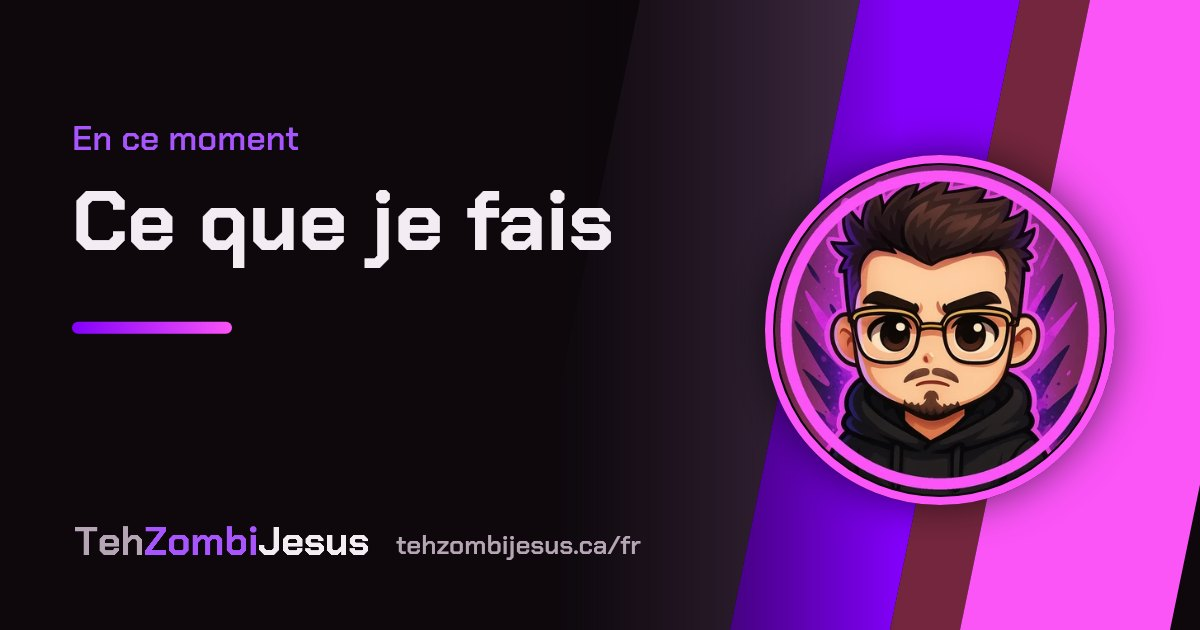
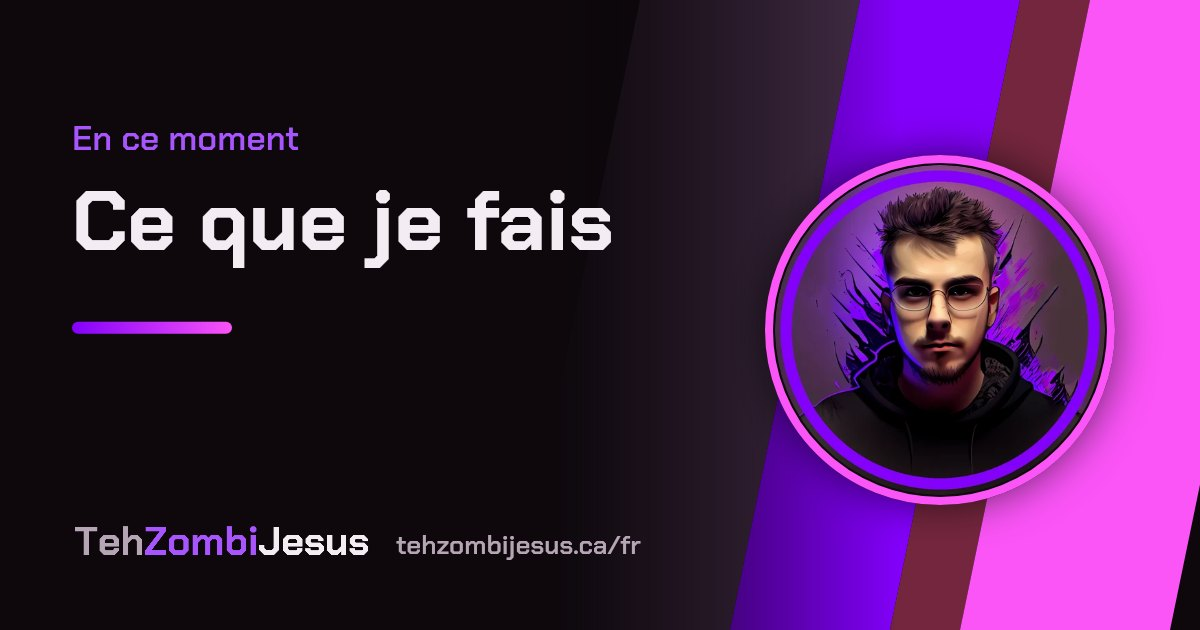
One portrait everywhere, and "article" in the French devlog
- The realistic portrait replaces the cartoon one on the home page and in
  every link preview image; the portrait flip and its achievement are gone
- French devlog says "article" instead of "billet"
- The last two posts are dated October 9, the day they went out

Claude-Session: https://claude.ai/code/session_011ZPNKb7oEeXYxcHXvTuuqN

Changed region(s): [[0.6475, 0.2413, 0.925, 0.7841]]

diff --git a/site/fr/devlog/crypt-keeper-devlog.html b/site/fr/devlog/crypt-keeper-devlog.html
@@ -4,13 +4,13 @@
 <meta charset="utf-8">
 <meta name="viewport" content="width=device-width, initial-scale=1, viewport-fit=cover">
 <title>Crypt Keeper publie le journal et reçoit /update-server | TehZombiJesus</title>
-<meta name="description" content="Chaque nouveau billet du journal arrive maintenant tout seul dans la Crypte, en anglais et en français, dans un nouveau salon 📰┃devlog.">
+<meta name="description" content="Chaque nouvel article du journal arrive maintenant tout seul dans la Crypte, en anglais et en français, dans un nouveau salon 📰┃devlog.">
 <meta name="theme-color" content="#8300fb">
 <link rel="icon" href="../../assets/favicon.svg" type="image/svg+xml">
 <link rel="manifest" href="../../manifest.webmanifest">
 <link rel="apple-touch-icon" href="../../assets/apple-touch-icon.png">
 <meta property="og:title" content="Crypt Keeper publie le journal et reçoit /update-server | TehZombiJesus">
-<meta property="og:description" content="Chaque nouveau billet du journal arrive maintenant tout seul dans la Crypte, en anglais et en français, dans un nouveau salon 📰┃devlog.">
+<meta property="og:description" content="Chaque nouvel article du journal arrive maintenant tout seul dans la Crypte, en anglais et en français, dans un nouveau salon 📰┃devlog.">
 <meta property="og:locale" content="fr_CA">
 <meta property="og:type" content="article">
 <meta property="og:site_name" content="TehZombiJesus">
@@ -59,16 +59,16 @@
     <span class="tag">Journal · <time datetime="2026-10-09">9 octobre 2026</time></span>
     <h1>Crypt Keeper publie le journal et reçoit /update-server</h1>
     <div class="bar"></div>
-    <p>Chaque nouveau billet du journal arrive maintenant tout seul dans la Crypte, en anglais et en français, dans un nouveau salon 📰┃devlog.</p>
+    <p>Chaque nouvel article du journal arrive maintenant tout seul dans la Crypte, en anglais et en français, dans un nouveau salon 📰┃devlog.</p>
   </header>
   <article class="prose">
-<p>Crypt Keeper, le bot de la Crypte, a appris un nouveau tour. Il vérifie le journal de ce site toutes les 30&nbsp;minutes, et chaque nouveau billet arrive dans <strong>📰┃devlog</strong> sur le serveur Discord, avec son titre, un résumé d'une ligne en anglais et en français, et des liens vers les deux versions.</p>
+<p>Crypt Keeper, le bot de la Crypte, a appris un nouveau tour. Il vérifie le journal de ce site toutes les 30&nbsp;minutes, et chaque nouvel article arrive dans <strong>📰┃devlog</strong> sur le serveur Discord, avec son titre, un résumé d'une ligne en anglais et en français, et des liens vers les deux versions.</p>
 <p>Le salon est en lecture seule, pour que les mises à jour restent faciles à suivre. On en jase dans les salons habituels.</p>
 <h2>/update-server</h2>
 <p>Les nouvelles fonctions qui ont besoin de quelque chose sur le serveur arrivent maintenant sous forme de petites mises à jour. <code>/update-server</code> affiche seulement ce qui est nouveau, explique chaque changement et attend un clic sur Appliquer. Chaque mise à jour ne s'applique qu'une fois et ne touche qu'à sa propre nouveauté, alors tout ce qui a été modifié à la main dans Discord reste exactement pareil. Fini de relancer tout le <code>/build-server</code>.</p>
 <p>Le journal couvre maintenant tout&nbsp;: ce site web, le serveur Discord et Crypt Keeper, le serveur Minecraft, le homelab et le poste de jeu. Le salon #devlog est donc l'endroit unique pour voir ce qui a changé.</p>
   </article>
-  <nav class="post-nav" aria-label="Autres billets"><a class="older" href="../devlog/moved-to-github.html">← Le site a déménagé sur GitHub, et il parle français</a><a class="all" href="../devlog.html">Tous les billets</a><a class="newer" href="../devlog/times-in-your-time-zone.html">Chaque heure dans ton propre fuseau horaire →</a></nav>
+  <nav class="post-nav" aria-label="Autres articles"><a class="older" href="../devlog/stavo-and-one-devlog.html">← Stavo sur la page du homelab, et un seul journal pour tout</a><a class="all" href="../devlog.html">Tous les articles</a></nav>
 </main>
 
 <footer>

diff --git a/site/fr/devlog.html b/site/fr/devlog.html
@@ -59,31 +59,31 @@
     <span class="tag">Journal</span>
     <h1>Construit en public</h1>
     <div class="bar"></div>
-    <p>Chaque mise à jour du site, du serveur Discord et de son bot, du serveur Minecraft, du homelab et du poste de jeu. Les nouveaux billets sont aussi annoncés sur Discord. Suis le tout avec le flux <a class="rss" href="feed.xml">RSS</a></p>
+    <p>Chaque mise à jour du site, du serveur Discord et de son bot, du serveur Minecraft, du homelab et du poste de jeu. Les nouveaux articles sont aussi annoncés sur Discord. Suis le tout avec le flux <a class="rss" href="feed.xml">RSS</a></p>
   </header>
   <section>
-    <div class="proj-filter" role="group" aria-label="Afficher les billets sur">
+    <div class="proj-filter" role="group" aria-label="Afficher les articles sur">
       <button type="button" data-filter="all" aria-pressed="true">Tout</button>
       <button type="button" data-filter="website" aria-pressed="false">Site web</button>
       <button type="button" data-filter="discord" aria-pressed="false">Discord et bot</button>
     </div>
     <ol class="post-list">
+      <li data-project="discord">
+        <span class="proj">Discord et bot</span><time datetime="2026-10-09">9 octobre 2026</time>
+        <h3><a href="devlog/crypt-keeper-devlog.html">Crypt Keeper publie le journal et reçoit /update-server</a></h3>
+        <p>Chaque nouvel article du journal arrive maintenant tout seul dans la Crypte, en anglais et en français, dans un nouveau salon 📰┃devlog.</p>
+        <ul class="tags-mini"><li>discord</li><li>bot</li><li>crypt keeper</li></ul>
+      </li>
       <li data-project="website">
-        <span class="proj">Site web</span><time datetime="2026-10-10">10 octobre 2026</time>
+        <span class="proj">Site web</span><time datetime="2026-10-09">9 octobre 2026</time>
         <h3><a href="devlog/stavo-and-one-devlog.html">Stavo sur la page du homelab, et un seul journal pour tout</a></h3>
         <p>La page du homelab présente maintenant Stavo, la plateforme auto-hébergée de mon ami Ronniie, et ce journal couvre maintenant chaque projet, avec un filtre.</p>
         <ul class="tags-mini"><li>website</li><li>homelab</li><li>stavo</li></ul>
       </li>
       <li data-project="discord">
-        <span class="proj">Discord et bot</span><time datetime="2026-10-10">10 octobre 2026</time>
+        <span class="proj">Discord et bot</span><time datetime="2026-10-09">9 octobre 2026</time>
         <h3><a href="devlog/times-in-your-time-zone.html">Chaque heure dans ton propre fuseau horaire</a></h3>
         <p>Les dates et heures publiées dans la Crypte s&#x27;affichent maintenant dans le fuseau horaire de chacun, et /timestamp permet à tout le monde d&#x27;en créer.</p>
-        <ul class="tags-mini"><li>discord</li><li>bot</li><li>crypt keeper</li></ul>
-      </li>
-      <li data-project="discord">
-        <span class="proj">Discord et bot</span><time datetime="2026-10-09">9 octobre 2026</time>
-        <h3><a href="devlog/crypt-keeper-devlog.html">Crypt Keeper publie le journal et reçoit /update-server</a></h3>
-        <p>Chaque nouveau billet du journal arrive maintenant tout seul dans la Crypte, en anglais et en français, dans un nouveau salon 📰┃devlog.</p>
         <ul class="tags-mini"><li>discord</li><li>bot</li><li>crypt keeper</li></ul>
       </li>
       <li data-project="website">

diff --git a/site/fr/devlog/stavo-and-one-devlog.html b/site/fr/devlog/stavo-and-one-devlog.html
@@ -56,7 +56,7 @@
 
 <main class="wrap">
   <header class="page-head">
-    <span class="tag">Journal · <time datetime="2026-10-10">10 octobre 2026</time></span>
+    <span class="tag">Journal · <time datetime="2026-10-09">9 octobre 2026</time></span>
     <h1>Stavo sur la page du homelab, et un seul journal pour tout</h1>
     <div class="bar"></div>
     <p>La page du homelab présente maintenant Stavo, la plateforme auto-hébergée de mon ami Ronniie, et ce journal couvre maintenant chaque projet, avec un filtre.</p>
@@ -65,11 +65,11 @@
 <h2>Stavo, par un ami</h2>
 <p>La page du homelab a une nouvelle section sur <a href="https://stavo.nulldaily.com">Stavo</a>, la plateforme auto-hébergée que mon bon ami Ronniie bâtit chez <a href="https://nulldaily.com">NullDaily</a>. Elle roule sur ton propre matériel&nbsp;: fichiers, photos, notes, serveurs de jeu, hébergement et facturation, pages de statut, mots de passe, courriel et plus encore. Une bonne partie de mon lab pourrait finir par rouler dessus, alors chaque application que je surveille a sa carte avec un lien.</p>
 <h2>Un seul journal pour tout</h2>
-<p>Ce journal couvre maintenant chaque projet, pas juste le site web&nbsp;: le serveur Discord et Crypt Keeper, le serveur Minecraft, le homelab et le poste de jeu. Chaque billet indique de quel projet il parle, et les boutons au-dessus de la liste n'affichent qu'un projet à la fois. Les nouveaux billets arrivent aussi tout seuls dans #devlog sur le serveur Discord.</p>
+<p>Ce journal couvre maintenant chaque projet, pas juste le site web&nbsp;: le serveur Discord et Crypt Keeper, le serveur Minecraft, le homelab et le poste de jeu. Chaque article indique de quel projet il parle, et les boutons au-dessus de la liste n'affichent qu'un projet à la fois. Les nouveaux articles arrivent aussi tout seuls dans #devlog sur le serveur Discord.</p>
 <h2>Ménage</h2>
 <p>Le dessin du prochain serveur n'est plus sur la page du homelab. Le plan de montage et les raisons derrière chaque choix sont toujours là.</p>
   </article>
-  <nav class="post-nav" aria-label="Autres billets"><a class="older" href="../devlog/times-in-your-time-zone.html">← Chaque heure dans ton propre fuseau horaire</a><a class="all" href="../devlog.html">Tous les billets</a></nav>
+  <nav class="post-nav" aria-label="Autres articles"><a class="older" href="../devlog/times-in-your-time-zone.html">← Chaque heure dans ton propre fuseau horaire</a><a class="all" href="../devlog.html">Tous les articles</a><a class="newer" href="../devlog/crypt-keeper-devlog.html">Crypt Keeper publie le journal et reçoit /update-server →</a></nav>
 </main>
 
 <footer>

diff --git a/site/devlog.html b/site/devlog.html
@@ -67,22 +67,22 @@
       <button type="button" data-filter="discord" aria-pressed="false">Discord and bot</button>
     </div>
     <ol class="post-list">
+      <li data-project="discord">
+        <span class="proj">Discord and bot</span><time datetime="2026-10-09">October 9, 2026</time>
+        <h3><a href="devlog/crypt-keeper-devlog.html">Crypt Keeper posts the devlog, and gets /update-server</a></h3>
+        <p>Every new devlog post now shows up in the Crypt by itself, in English and French, in a new 📰┃devlog channel.</p>
+        <ul class="tags-mini"><li>discord</li><li>bot</li><li>crypt keeper</li></ul>
+      </li>
       <li data-project="website">
-        <span class="proj">Website</span><time datetime="2026-10-10">October 10, 2026</time>
+        <span class="proj">Website</span><time datetime="2026-10-09">October 9, 2026</time>
         <h3><a href="devlog/stavo-and-one-devlog.html">Stavo on the homelab page, and one devlog for everything</a></h3>
         <p>The homelab page now shows Stavo, my friend Ronniie&#x27;s self-hosted platform, and this devlog now covers every project, with a filter.</p>
         <ul class="tags-mini"><li>website</li><li>homelab</li><li>stavo</li></ul>
       </li>
       <li data-project="discord">
-        <span class="proj">Discord and bot</span><time datetime="2026-10-10">October 10, 2026</time>
+        <span class="proj">Discord and bot</span><time datetime="2026-10-09">October 9, 2026</time>
         <h3><a href="devlog/times-in-your-time-zone.html">Every time in your own time zone</a></h3>
         <p>Dates and times posted in the Crypt now show in each person&#x27;s own time zone, and /timestamp makes them for anyone.</p>
-        <ul class="tags-mini"><li>discord</li><li>bot</li><li>crypt keeper</li></ul>
-      </li>
-      <li data-project="discord">
-        <span class="proj">Discord and bot</span><time datetime="2026-10-09">October 9, 2026</time>
-        <h3><a href="devlog/crypt-keeper-devlog.html">Crypt Keeper posts the devlog, and gets /update-server</a></h3>
-        <p>Every new devlog post now shows up in the Crypt by itself, in English and French, in a new 📰┃devlog channel.</p>
         <ul class="tags-mini"><li>discord</li><li>bot</li><li>crypt keeper</li></ul>
       </li>
       <li data-project="website">

diff --git a/site/fr/devlog/times-in-your-time-zone.html b/site/fr/devlog/times-in-your-time-zone.html
@@ -56,7 +56,7 @@
 
 <main class="wrap">
   <header class="page-head">
-    <span class="tag">Journal · <time datetime="2026-10-10">10 octobre 2026</time></span>
+    <span class="tag">Journal · <time datetime="2026-10-09">9 octobre 2026</time></span>
     <h1>Chaque heure dans ton propre fuseau horaire</h1>
     <div class="bar"></div>
     <p>Les dates et heures publiées dans la Crypte s&#x27;affichent maintenant dans le fuseau horaire de chacun, et /timestamp permet à tout le monde d&#x27;en créer.</p>
@@ -69,7 +69,7 @@
 </ul>
 <p>Mes annonces vont les utiliser aussi, alors plus besoin de convertir à partir de l'heure de l'Est.</p>
   </article>
-  <nav class="post-nav" aria-label="Autres billets"><a class="older" href="../devlog/crypt-keeper-devlog.html">← Crypt Keeper publie le journal et reçoit /update-server</a><a class="all" href="../devlog.html">Tous les billets</a><a class="newer" href="../devlog/stavo-and-one-devlog.html">Stavo sur la page du homelab, et un seul journal pour tout →</a></nav>
+  <nav class="post-nav" aria-label="Autres articles"><a class="older" href="../devlog/moved-to-github.html">← Le site a déménagé sur GitHub, et il parle français</a><a class="all" href="../devlog.html">Tous les articles</a><a class="newer" href="../devlog/stavo-and-one-devlog.html">Stavo sur la page du homelab, et un seul journal pour tout →</a></nav>
 </main>
 
 <footer>

diff --git a/site/changelog.html b/site/changelog.html
@@ -61,7 +61,7 @@
   </header>
   <section>
     <ol class="changes">
-    <li><time datetime="2026-10-10">October 10, 2026</time><ul><li>Stavo: add Statistics, completing the HomeLab suite</li><li>Homelab: remove the pull quote under the Stavo apps</li><li>Stavo: keep only the apps I plan to use</li><li>Stavo: Game store and Forums cards, fuller descriptions, a quote from Ronniie</li><li>Stavo cards: one consistent note, &quot;Alternative to&quot; a well-known app</li><li>Stavo on the homelab page, one devlog for every project</li><li>Keep the Canada flag still in About me</li></ul></li>
+    <li><time datetime="2026-10-10">October 10, 2026</time><ul><li>Devlog: every time in your own time zone</li><li>Stavo: add Statistics, completing the HomeLab suite</li><li>Homelab: remove the pull quote under the Stavo apps</li><li>Stavo: keep only the apps I plan to use</li><li>Stavo: Game store and Forums cards, fuller descriptions, a quote from Ronniie</li><li>Stavo cards: one consistent note, &quot;Alternative to&quot; a well-known app</li><li>Stavo on the homelab page, one devlog for every project</li><li>Keep the Canada flag still in About me</li></ul></li>
     <li><time datetime="2026-10-08">October 8, 2026</time><ul><li>The homelab page comes alive: live status, server x-ray and a lab console</li></ul></li>
     </ol>
   </section>

diff --git a/site/fr/changelog.html b/site/fr/changelog.html
@@ -62,7 +62,7 @@
   </header>
   <section>
     <ol class="changes">
-    <li><time datetime="2026-10-10">10 octobre 2026</time><ul><li>Stavo: add Statistics, completing the HomeLab suite</li><li>Homelab: remove the pull quote under the Stavo apps</li><li>Stavo: keep only the apps I plan to use</li><li>Stavo: Game store and Forums cards, fuller descriptions, a quote from Ronniie</li><li>Stavo cards: one consistent note, &quot;Alternative to&quot; a well-known app</li><li>Stavo on the homelab page, one devlog for every project</li><li>Keep the Canada flag still in About me</li></ul></li>
+    <li><time datetime="2026-10-10">10 octobre 2026</time><ul><li>Devlog: every time in your own time zone</li><li>Stavo: add Statistics, completing the HomeLab suite</li><li>Homelab: remove the pull quote under the Stavo apps</li><li>Stavo: keep only the apps I plan to use</li><li>Stavo: Game store and Forums cards, fuller descriptions, a quote from Ronniie</li><li>Stavo cards: one consistent note, &quot;Alternative to&quot; a well-known app</li><li>Stavo on the homelab page, one devlog for every project</li><li>Keep the Canada flag still in About me</li></ul></li>
     <li><time datetime="2026-10-08">8 octobre 2026</time><ul><li>The homelab page comes alive: live status, server x-ray and a lab console</li></ul></li>
     </ol>
   </section>

diff --git a/site/devlog/times-in-your-time-zone.html b/site/devlog/times-in-your-time-zone.html
@@ -55,7 +55,7 @@
 
 <main class="wrap">
   <header class="page-head">
-    <span class="tag">Devlog · <time datetime="2026-10-10">October 10, 2026</time></span>
+    <span class="tag">Devlog · <time datetime="2026-10-09">October 9, 2026</time></span>
     <h1>Every time in your own time zone</h1>
     <div class="bar"></div>
     <p>Dates and times posted in the Crypt now show in each person&#x27;s own time zone, and /timestamp makes them for anyone.</p>
@@ -68,7 +68,7 @@
 </ul>
 <p>Announcements from me will use them too, so you never have to convert from Eastern time again.</p>
   </article>
-  <nav class="post-nav" aria-label="More posts"><a class="older" href="../devlog/crypt-keeper-devlog.html">← Crypt Keeper posts the devlog, and gets /update-server</a><a class="all" href="../devlog.html">All posts</a><a class="newer" href="../devlog/stavo-and-one-devlog.html">Stavo on the homelab page, and one devlog for everything →</a></nav>
+  <nav class="post-nav" aria-label="More posts"><a class="older" href="../devlog/moved-to-github.html">← The site moved to GitHub, and learned French</a><a class="all" href="../devlog.html">All posts</a><a class="newer" href="../devlog/stavo-and-one-devlog.html">Stavo on the homelab page, and one devlog for everything →</a></nav>
 </main>
 
 <footer>

diff --git a/site/devlog/stavo-and-one-devlog.html b/site/devlog/stavo-and-one-devlog.html
@@ -55,7 +55,7 @@
 
 <main class="wrap">
   <header class="page-head">
-    <span class="tag">Devlog · <time datetime="2026-10-10">October 10, 2026</time></span>
+    <span class="tag">Devlog · <time datetime="2026-10-09">October 9, 2026</time></span>
     <h1>Stavo on the homelab page, and one devlog for everything</h1>
     <div class="bar"></div>
     <p>The homelab page now shows Stavo, my friend Ronniie&#x27;s self-hosted platform, and this devlog now covers every project, with a filter.</p>
@@ -68,7 +68,7 @@
 <h2>Cleaned up</h2>
 <p>The drawing of the next server is gone from the homelab page. The build plan and the reasons behind it are still there.</p>
   </article>
-  <nav class="post-nav" aria-label="More posts"><a class="older" href="../devlog/times-in-your-time-zone.html">← Every time in your own time zone</a><a class="all" href="../devlog.html">All posts</a></nav>
+  <nav class="post-nav" aria-label="More posts"><a class="older" href="../devlog/times-in-your-time-zone.html">← Every time in your own time zone</a><a class="all" href="../devlog.html">All posts</a><a class="newer" href="../devlog/crypt-keeper-devlog.html">Crypt Keeper posts the devlog, and gets /update-server →</a></nav>
 </main>
 
 <footer>

diff --git a/site/devlog/crypt-keeper-devlog.html b/site/devlog/crypt-keeper-devlog.html
@@ -67,7 +67,7 @@
 <p>New features that need something on the server now arrive as small updates. <code>/update-server</code> lists only what's new, explains each change and waits for an Apply click. Each update runs once and touches only its own new thing, so anything changed by hand in Discord stays exactly as it is. No more running the full <code>/build-server</code> again.</p>
 <p>The devlog now covers everything: this website, the Discord server and Crypt Keeper, the Minecraft server, the homelab and the setup. So #devlog is the one place to see what changed.</p>
   </article>
-  <nav class="post-nav" aria-label="More posts"><a class="older" href="../devlog/moved-to-github.html">← The site moved to GitHub, and learned French</a><a class="all" href="../devlog.html">All posts</a><a class="newer" href="../devlog/times-in-your-time-zone.html">Every time in your own time zone →</a></nav>
+  <nav class="post-nav" aria-label="More posts"><a class="older" href="../devlog/stavo-and-one-devlog.html">← Stavo on the homelab page, and one devlog for everything</a><a class="all" href="../devlog.html">All posts</a></nav>
 </main>
 
 <footer>

diff --git a/tools/og.js b/tools/og.js
@@ -37,7 +37,7 @@ function wrap(ctx, text, max) {
 
 (async () => {
   const A = p => loadImage(path.join(ROOT, 'site/assets', p));
-  const toon = await A('avatar-toon.webp');
+  const face = await A('avatar.webp');
   const crest = await A('ruenix-crest.webp');
   const word = await loadImage(Buffer.from(fs.readFileSync(path.join(ROOT, 'site/assets/wordmark.svg'), 'utf8')));
   for (const pg of PAGES) for (const [li, lang] of [[0, 'en'], [1, 'fr']]) {
@@ -52,7 +52,7 @@ function wrap(ctx, text, max) {
     const g = x.createLinearGradient(560, 0, 900, 0); g.addColorStop(0, C.bg); g.addColorStop(1, 'rgba(0,0,0,0)');
     x.fillStyle = g; x.fillRect(480, 0, 440, H);
     // portrait / crest
-    const img = rx ? crest : toon, S = 330, cx = 940, cy = 330;
+    const img = rx ? crest : face, S = 330, cx = 940, cy = 330;
     x.save(); x.shadowColor = 'rgba(0,0,0,.6)'; x.shadowBlur = 40;
     x.beginPath(); x.arc(cx, cy, S / 2 + 10, 0, 7); x.fillStyle = C.bg; x.fill(); x.restore();
     x.save(); x.beginPath(); x.arc(cx, cy, S / 2, 0, 7); x.clip(); x.drawImage(img, cx - S / 2, cy - S / 2, S, S); x.restore();

diff --git a/site/fr/index.html b/site/fr/index.html
@@ -56,7 +56,7 @@
 <main class="wrap">
 
   <header class="hero animate">
-    <img class="avatar" fetchpriority="high" src="../assets/avatar.webp" alt="Avatar de TehZombiJesus" width="320" height="320" data-flip="../assets/avatar-toon.webp" title="Clique-moi">
+    <img class="avatar" fetchpriority="high" src="../assets/avatar.webp" alt="Avatar de TehZombiJesus" width="320" height="320">
     <div class="hero-text">
       <h1 style="margin:0"><img class="wordmark" src="../assets/wordmark.svg" alt="TehZombiJesus" width="700" height="79"></h1>
       <div class="bar"></div>
@@ -92,7 +92,7 @@
     <h2>À propos de moi</h2>
     <p class="lede">La version courte.</p>
     <div class="about">
-      <img loading="lazy" decoding="async" src="../assets/avatar-toon.webp" alt="Version dessin animé de TehZombiJesus" width="260" height="260">
+      <img loading="lazy" decoding="async" src="../assets/avatar.webp" alt="Avatar de TehZombiJesus" width="260" height="260">
       <div>
         <!-- Age updates itself every birthday. The birthday is set in site.js. -->
         <ul class="me">
